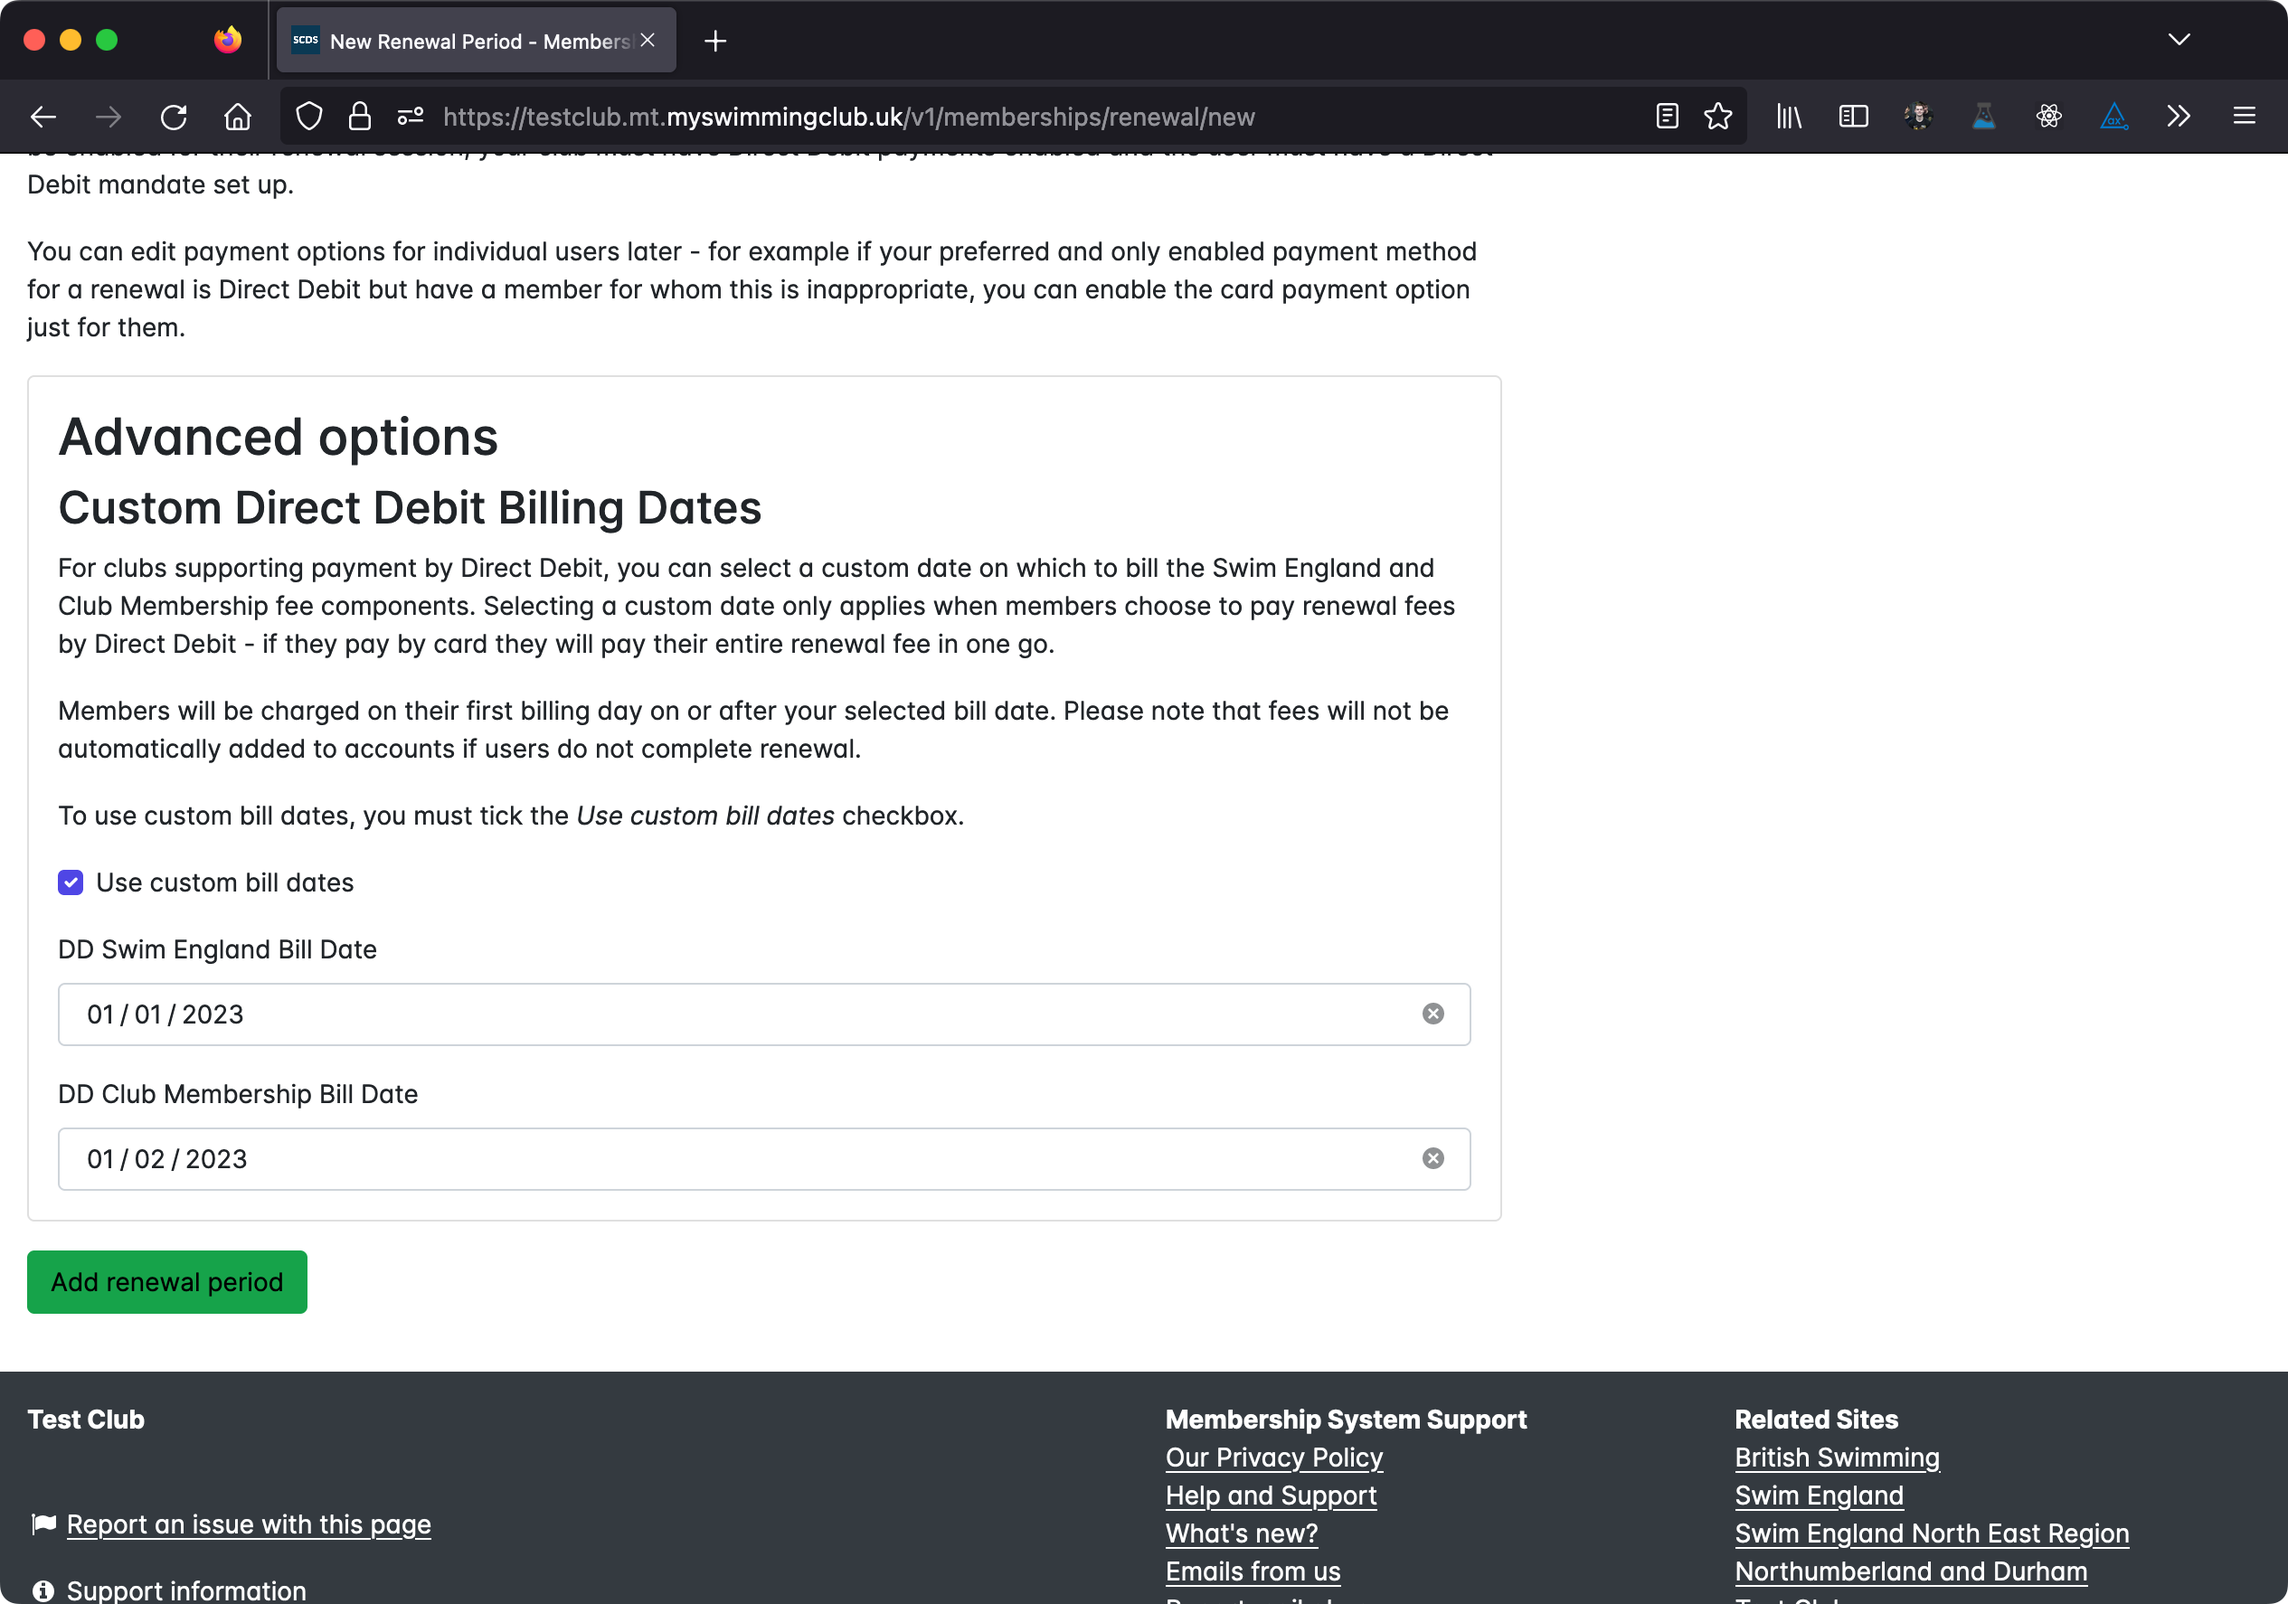
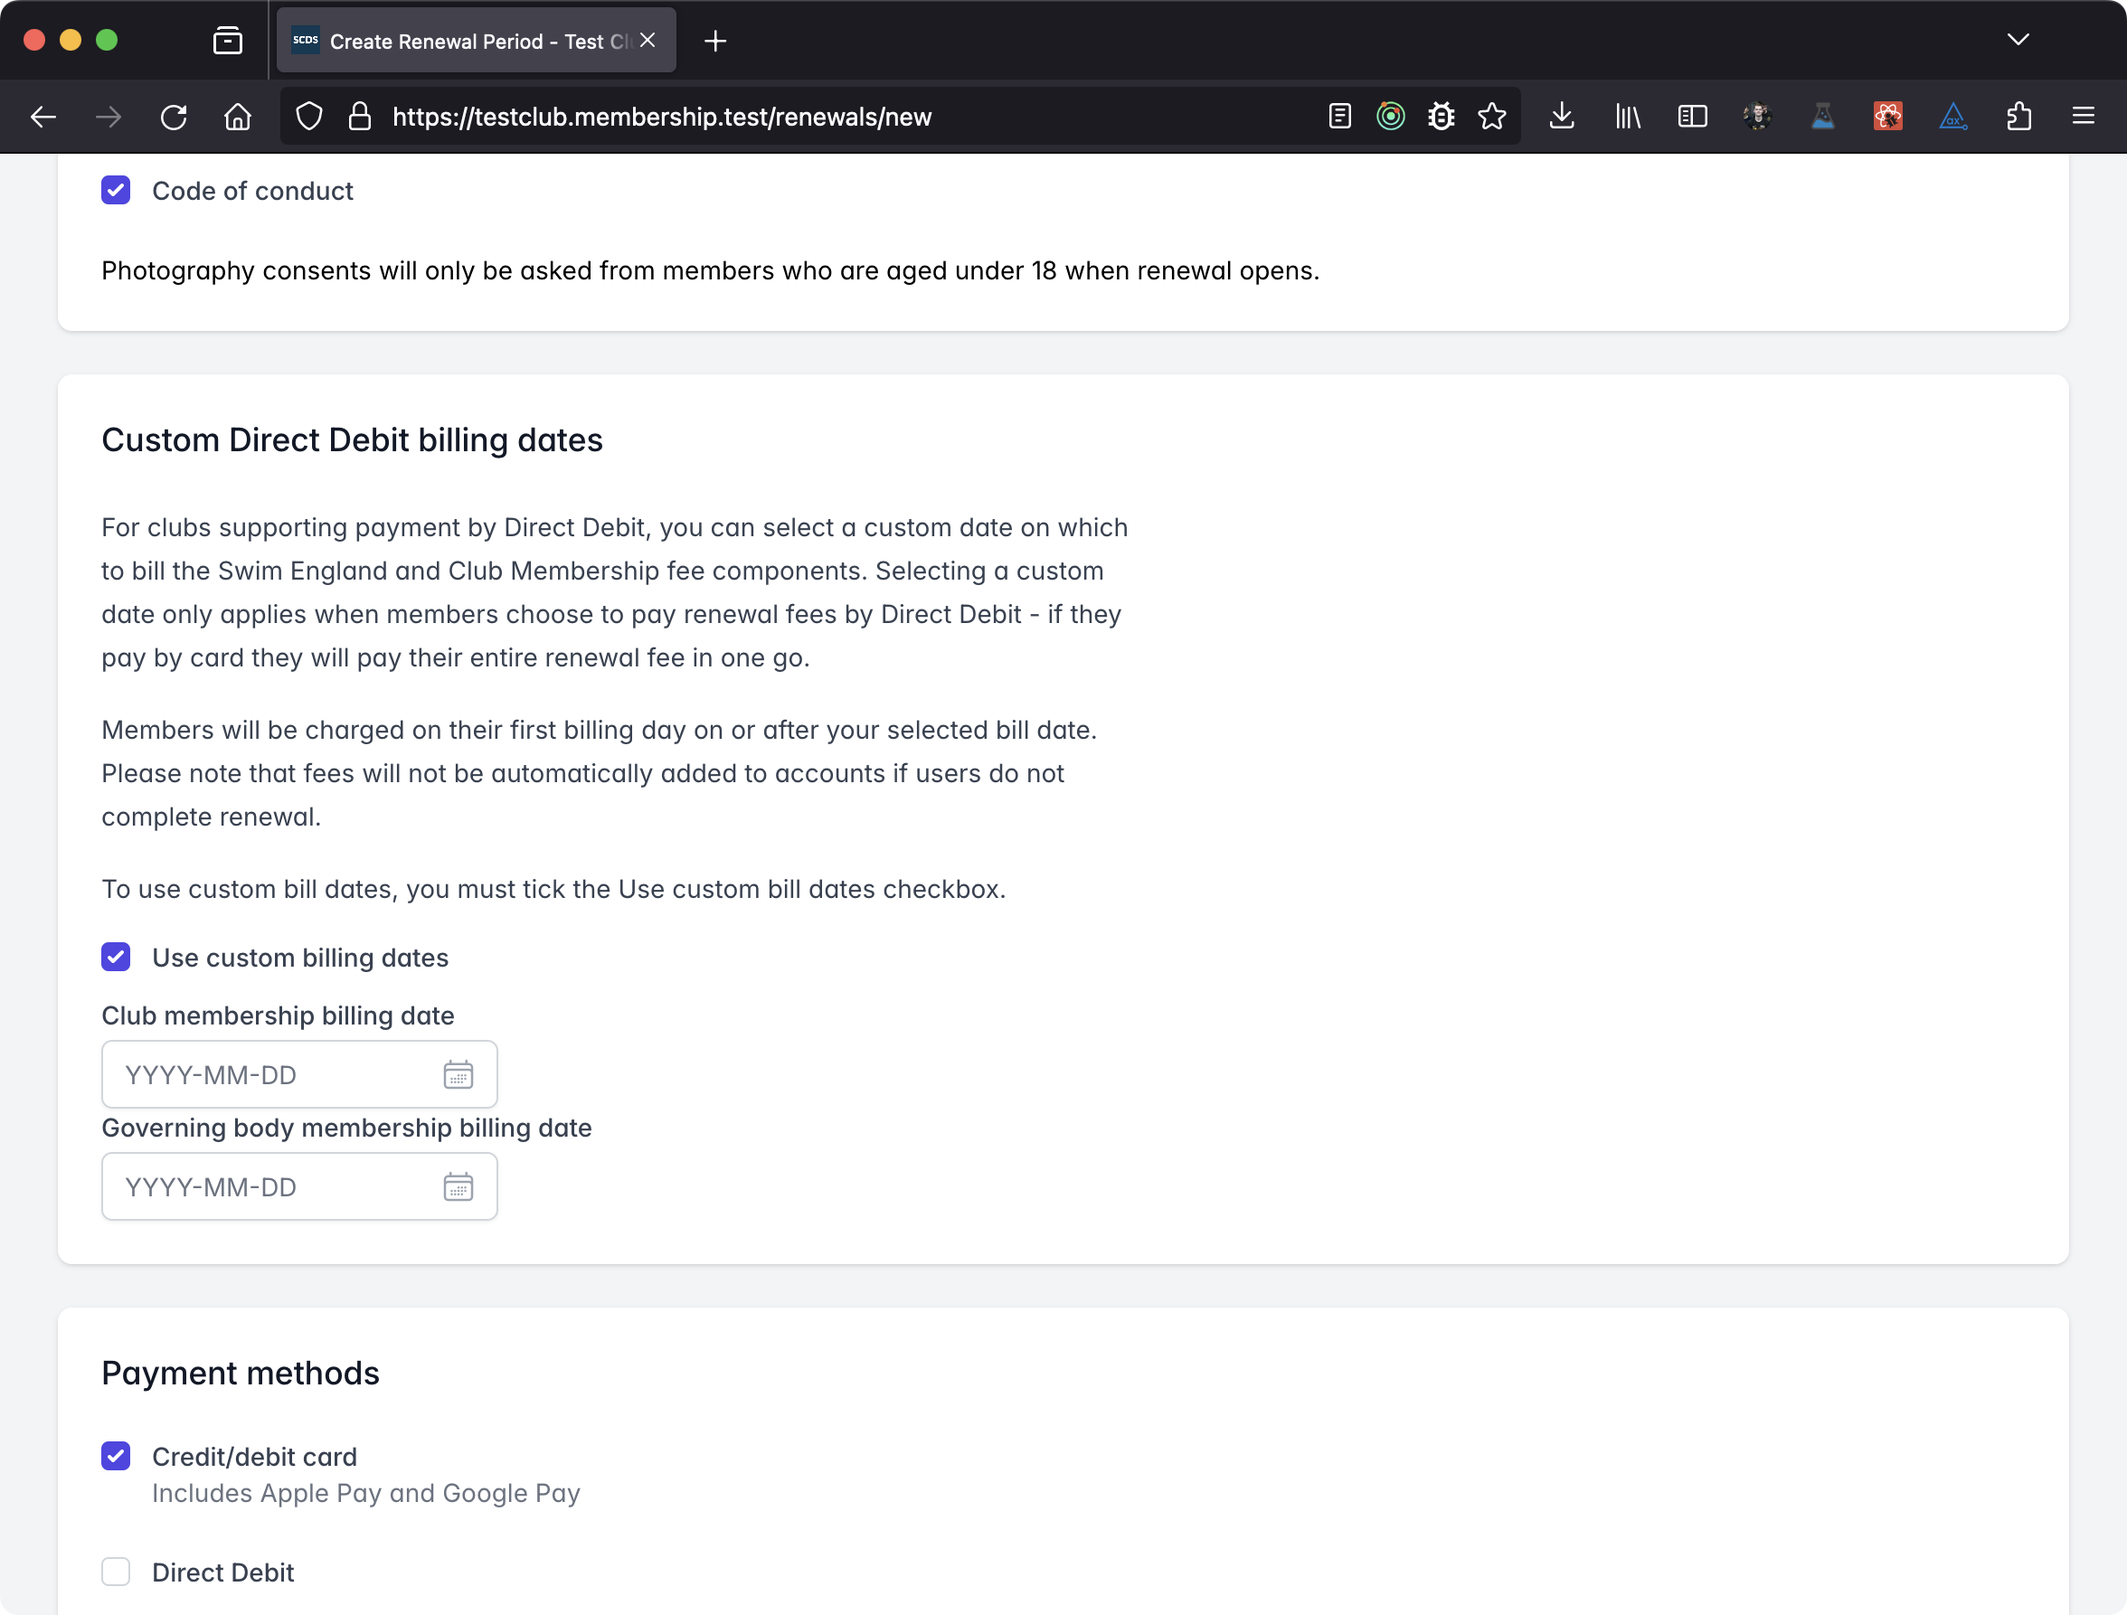
WIP: Update help and response design for renewal

diff --git a/src/resources/js/Components/Renewal/RenewalForm.tsx b/src/resources/js/Components/Renewal/RenewalForm.tsx
@@ -2,7 +2,7 @@ import * as yup from "yup";
 import DateTimeInput from "@/Components/Form/DateTimeInput";
 import Card from "@/Components/Card";
 import Checkbox from "@/Components/Form/Checkbox";
-import Form from "@/Components/Form/Form";
+import Form, { SubmissionButtons } from "@/Components/Form/Form";
 import React, { ReactNode } from "react";
 import { useFormikContext } from "formik";
 import Alert from "@/Components/Alert";
@@ -121,6 +121,7 @@ export const RenewalForm = (props: RenewalFormProps) => {
             action={props.action}
             method={props.method}
             submitTitle="Save"
+            hideDefaultButtons
         >
             <div className="grid gap-6">
                 {props.mode === "create" && (
@@ -238,8 +239,35 @@ export const RenewalForm = (props: RenewalFormProps) => {
                         />
 
                         <Checkbox name="direct_debit" label="Direct Debit" />
+
+                        <div className="prose prose-sm">
+                            <p>
+                                Payment types will only be available to users if
+                                they also meet the criteria for that type. e.g.
+                                to pay by Direct Debit, it must be enabled for
+                                their renewal session, your club must have
+                                Direct Debit payments enabled and the user must
+                                have a Direct Debit mandate set up.
+                            </p>
+
+                            <p>
+                                You can edit payment options for individual
+                                users later - for example if your preferred and
+                                only enabled payment method for a renewal is
+                                Direct Debit but have a member for whom this is
+                                inappropriate, you can enable the card payment
+                                option just for them.
+                            </p>
+                        </div>
                     </Card>
                 )}
+                <Card title="Save changes" footer={<SubmissionButtons />}>
+                    <Alert variant="warning" title="Warning">
+                        Some settings can only be changed before the start date
+                        of this renewal. After the start, you must edit an
+                        individual onboarding session instead.
+                    </Alert>
+                </Card>
             </div>
         </Form>
     );

diff --git a/src/resources/js/Pages/Renewal/Edit.tsx b/src/resources/js/Pages/Renewal/Edit.tsx
@@ -7,6 +7,7 @@ import { Layout } from "@/Common/Layout";
 import { formatDate } from "@/Utils/date-utils";
 import { RenewalProps } from "@/Pages/Renewal/Index";
 import { RenewalForm } from "@/Components/Renewal/RenewalForm";
+import Link from "@/Components/Link";
 
 type StageField = {
     id: string;
@@ -62,9 +63,22 @@ const Show: Layout<Props> = (props: Props) => {
                 ]}
             />
 
-            <Container noMargin>
-                <MainHeader title={pageName} subtitle={subtitle}></MainHeader>
+            <Container>
+                <MainHeader
+                    title={pageName}
+                    subtitle={subtitle}
+                    buttons={
+                        <Link
+                            external
+                            href="https://docs.myswimmingclub.uk/docs/onboarding/renewal/"
+                        >
+                            Help
+                        </Link>
+                    }
+                ></MainHeader>
+            </Container>
 
+            <Container noMargin>
                 <div className="grid gap-6">
                     <RenewalForm
                         mode="edit"

diff --git a/src/resources/js/Pages/Renewal/New.tsx b/src/resources/js/Pages/Renewal/New.tsx
@@ -6,6 +6,7 @@ import MainHeader from "@/Layouts/Components/MainHeader";
 import { Layout } from "@/Common/Layout";
 import { RenewalProps } from "@/Pages/Renewal/Index";
 import { RenewalForm } from "@/Components/Renewal/RenewalForm";
+import Link from "@/Components/Link";
 
 type StageField = {
     id: string;
@@ -40,12 +41,22 @@ const New: Layout<Props> = (props: Props) => {
                 ]}
             />
 
-            <Container noMargin>
+            <Container>
                 <MainHeader
                     title={pageName}
                     subtitle="Create a new renewal period"
+                    buttons={
+                        <Link
+                            external
+                            href="https://docs.myswimmingclub.uk/docs/onboarding/renewal/"
+                        >
+                            Help
+                        </Link>
+                    }
                 ></MainHeader>
+            </Container>
 
+            <Container noMargin>
                 <div className="grid gap-6">
                     <RenewalForm
                         mode="create"

diff --git a/src/resources/js/Pages/Renewal/Index.tsx b/src/resources/js/Pages/Renewal/Index.tsx
@@ -7,6 +7,7 @@ import { Layout } from "@/Common/Layout";
 import Collection, { LaravelPaginatorProps } from "@/Components/Collection";
 import { formatDate } from "@/Utils/date-utils";
 import ButtonLink from "@/Components/ButtonLink";
+import Link from "@/Components/Link";
 
 type MembershipYearProps = {
     id: string;
@@ -75,7 +76,7 @@ const Index: Layout<Props> = (props: Props) => {
                 ]}
             />
 
-            <Container noMargin>
+            <Container>
                 <MainHeader
                     title={"Renewal Periods"}
                     subtitle={`All renewal periods`}
@@ -87,7 +88,9 @@ const Index: Layout<Props> = (props: Props) => {
                         )
                     }
                 ></MainHeader>
+            </Container>
 
+            <Container noMargin>
                 <Collection
                     searchable
                     {...props.renewals}

diff --git a/src/resources/js/Pages/Renewal/Show.tsx b/src/resources/js/Pages/Renewal/Show.tsx
@@ -50,7 +50,7 @@ const Show: Layout<Props> = (props: Props) => {
                 ]}
             />
 
-            <Container noMargin>
+            <Container>
                 <MainHeader
                     title={pageName}
                     subtitle={subtitle}
@@ -62,7 +62,9 @@ const Show: Layout<Props> = (props: Props) => {
                         )
                     }
                 ></MainHeader>
+            </Container>
 
+            <Container noMargin>
                 <div className="grid gap-6">
                     <Card title="View member renewal status">
                         <ul className="text-sm">

diff --git a/docs/docs/onboarding/renewal/index.md b/docs/docs/onboarding/renewal/index.md
@@ -6,7 +6,7 @@ Membership renewal is a busy and complex time of year, therefore we try to make 
 
 To get started quickly with membership renewal you will need to;
 
-1. Create a membership year - We'll be renewing membership for that year
+1. [Create a membership year](../membership-years.md) - We'll be renewing membership for that year
 2. Create a renewal period
     1. Choose your start and end dates
     2. Choose your required steps
@@ -29,7 +29,22 @@ The page will look like this;
 
 ![Screenshot of the new renewal period page](../img/new-renewal-period.png "New renewal period page")
 
-Now let's fill in the required information. Start by choosing a membership year for your Swim England and/or Club Membership years. You can choose from any current or future membership year, or none if one does not apply (e.g. your club does not charge an annual club membership fee). You can choose different membership years for each if your club membership year does not run concurrently with the Swim England one.
+Now let's fill in the required information. Start by choosing a membership year for your Swim England and/or Club Membership years. You can choose from any of the latest 15 current or future membership year, or **None** if one does not apply (e.g. your club does not charge an annual club membership fee). You can choose different membership years for each if your club membership year does not run concurrently with the Swim England one.
+
+At most clubs, the club and Swim England membership years run concurrently with the same start and end dates (usually 1 Jan - 31 Dec). If this applies to you, select the same membership year from both dropdowns.
+
+If you club does not have an annual **Club Membership**, select None for your **Club Membership** membership year.
+
+If your club and Swim England membership years run with different dates, please either;
+
+- Select the appropriate membership year for club and Swim England fees. Members will pay for both types at the same time.
+- Select a membership year for the appropriate membership type you want to renew and select None for the other. You can repeat this the other way around when you want to renew the other type (you may wish to remove some of the required stages for one of the renewals). In this case, members will only renew and pay for the type of membership you chose a membership year for.
+
+:::warning
+
+You must pick a year under at least one of the options.
+
+:::
 
 Now let's pick a start and end date for the renewal period. These can be anything you like, but you should always pick a start date that is in the future - this is because we will calculate who needs to renew as part of a batch process which runs overnight on your selected start date, and it will not run if you select today's date or a date in the past.
 
@@ -41,11 +56,19 @@ Then choose the payment methods you want to allow members to use to pay their re
 
 If members choose to pay by Direct Debit, you can choose to use custom posting dates for the transactions. This allows you to bill Swim England and Club Membership fees over separate months to reduce the financial burden on families.
 
-To do this, tick the *Use custom bill dates* box and enter the dates you would like to use for Swim England and Club Membership fees.
+This option will not apply to payments made via any other means.
 
-This setting will be ignored if you do not tick the box. You can change this setting later on in the renewal period, but any changes will not apply to any transactions that have already been posted.
+To do this, tick the *Use custom billing dates* box and enter the dates you would like to use for Swim England and Club Membership fees.
 
-Here is an example of how you might use this setting;
+This setting will be ignored if you do not tick the box. You can change this setting later on in the renewal period, but any changes will not apply to any renewals which have already been completed.
+
+:::info
+
+Don't forget to enable the option to pay for renewal by Direct Debit if you select custom billing dates.
+
+:::
+
+The custom billing dates section looks like this;
 
 ![Screenshot of the new renewal period page, custom renewal bill date settings](../img/custom-renewal-bill-date.png "New renewal period page, custom renewal bill date settings")
 
